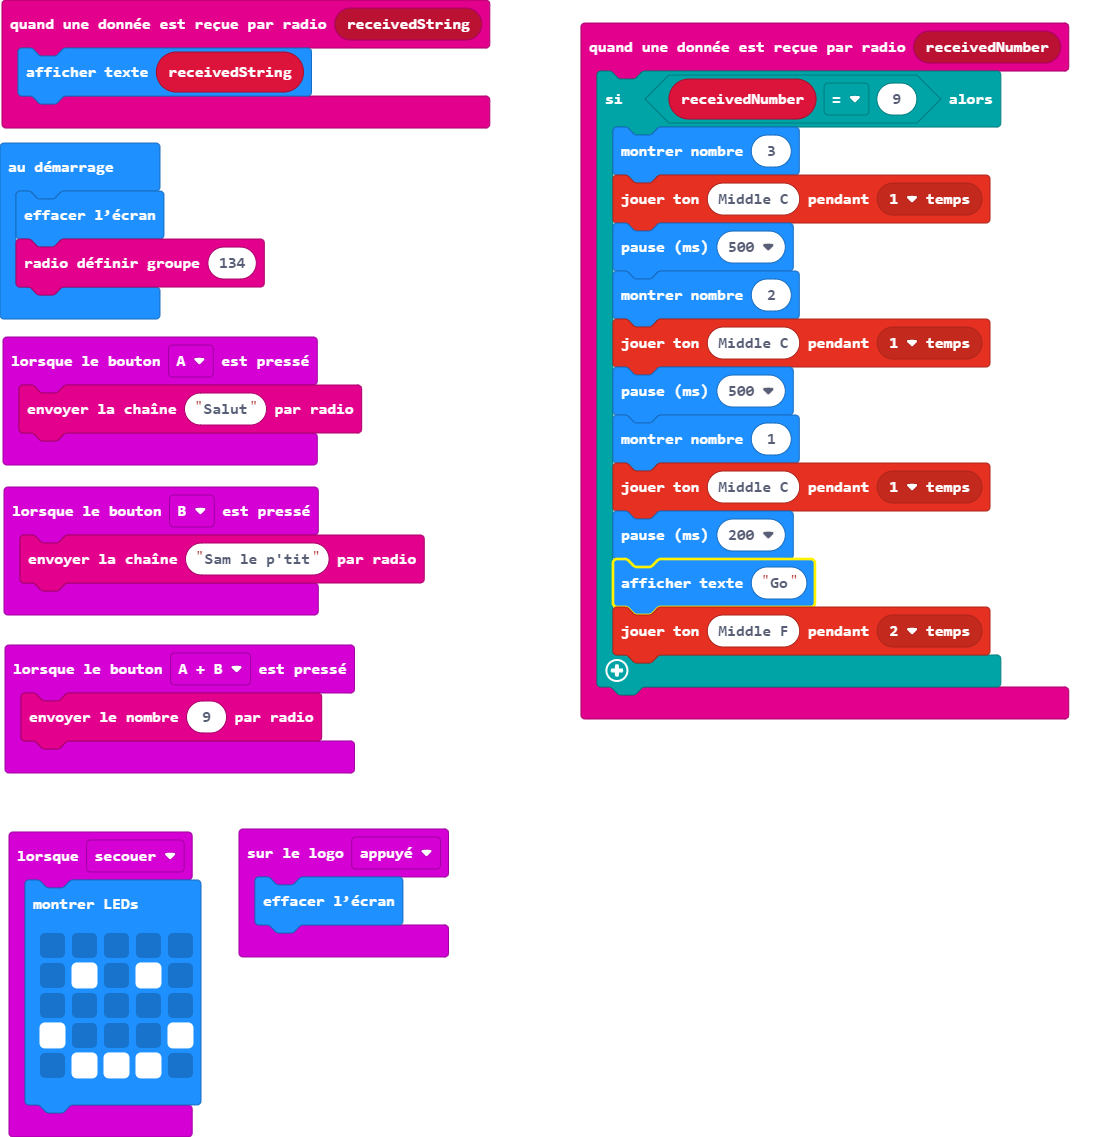
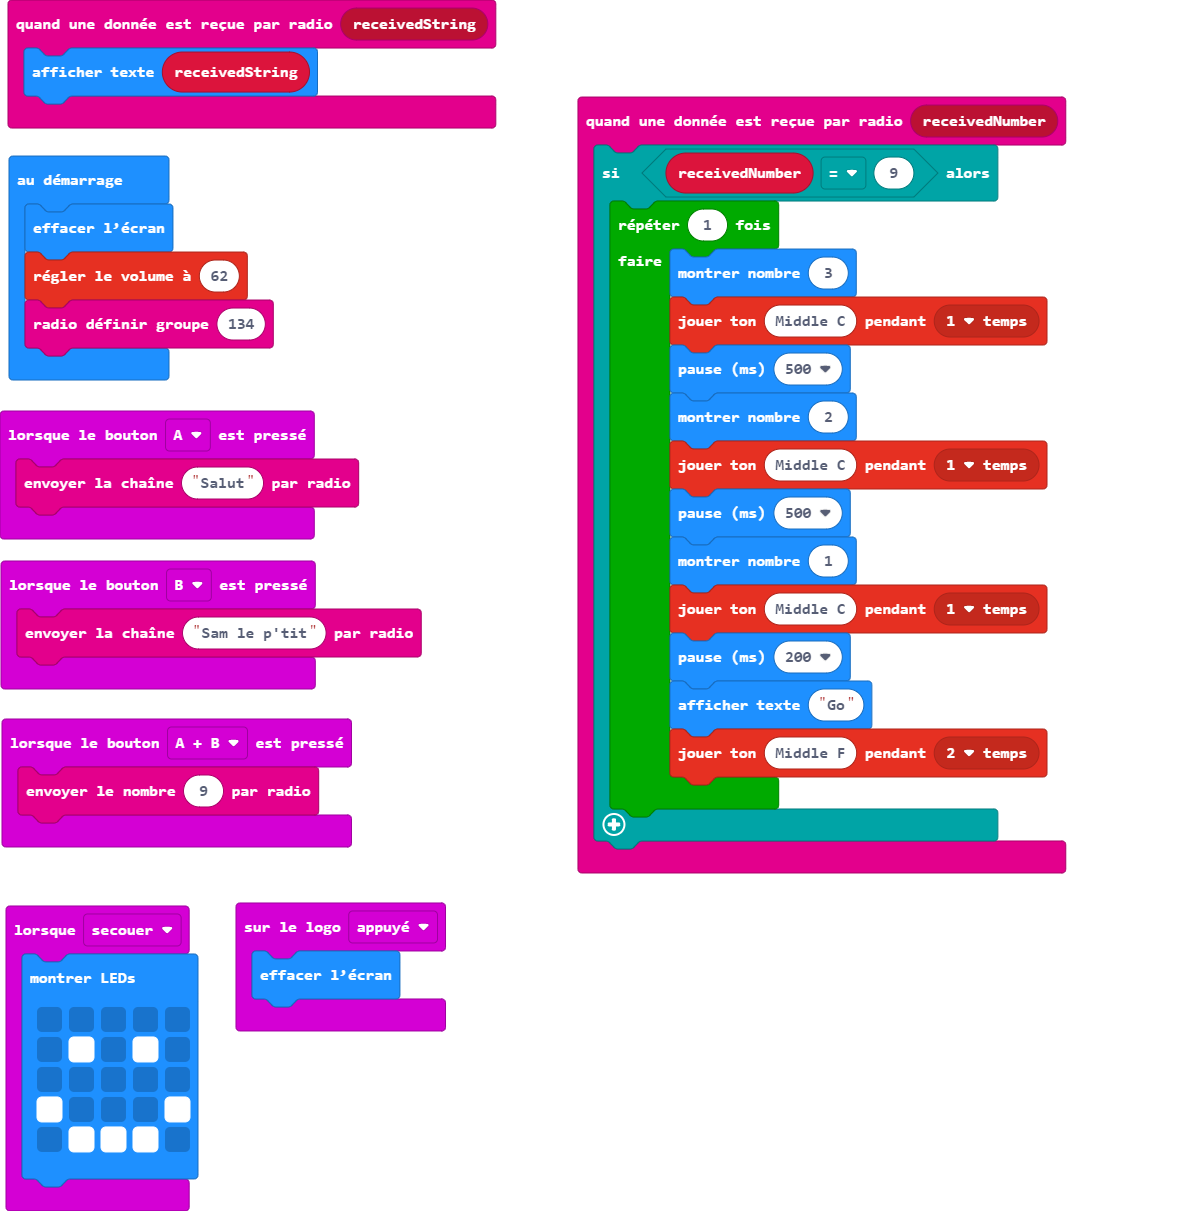
Mise à jour main.blocks, main.ts

diff --git a/main.ts b/main.ts
@@ -1,16 +1,18 @@
 radio.onReceivedNumber(function (receivedNumber) {
     if (receivedNumber == 9) {
-        basic.showNumber(3)
-        music.playTone(262, music.beat(BeatFraction.Whole))
-        basic.pause(500)
-        basic.showNumber(2)
-        music.playTone(262, music.beat(BeatFraction.Whole))
-        basic.pause(500)
-        basic.showNumber(1)
-        music.playTone(262, music.beat(BeatFraction.Whole))
-        basic.pause(200)
-        basic.showString("Go")
-        music.playTone(349, music.beat(BeatFraction.Double))
+        for (let index = 0; index < 1; index++) {
+            basic.showNumber(3)
+            music.playTone(262, music.beat(BeatFraction.Whole))
+            basic.pause(500)
+            basic.showNumber(2)
+            music.playTone(262, music.beat(BeatFraction.Whole))
+            basic.pause(500)
+            basic.showNumber(1)
+            music.playTone(262, music.beat(BeatFraction.Whole))
+            basic.pause(200)
+            basic.showString("Go")
+            music.playTone(349, music.beat(BeatFraction.Double))
+        }
     }
 })
 input.onButtonPressed(Button.A, function () {
@@ -38,4 +40,5 @@ input.onLogoEvent(TouchButtonEvent.Pressed, function () {
     basic.clearScreen()
 })
 basic.clearScreen()
+music.setVolume(62)
 radio.setGroup(134)
